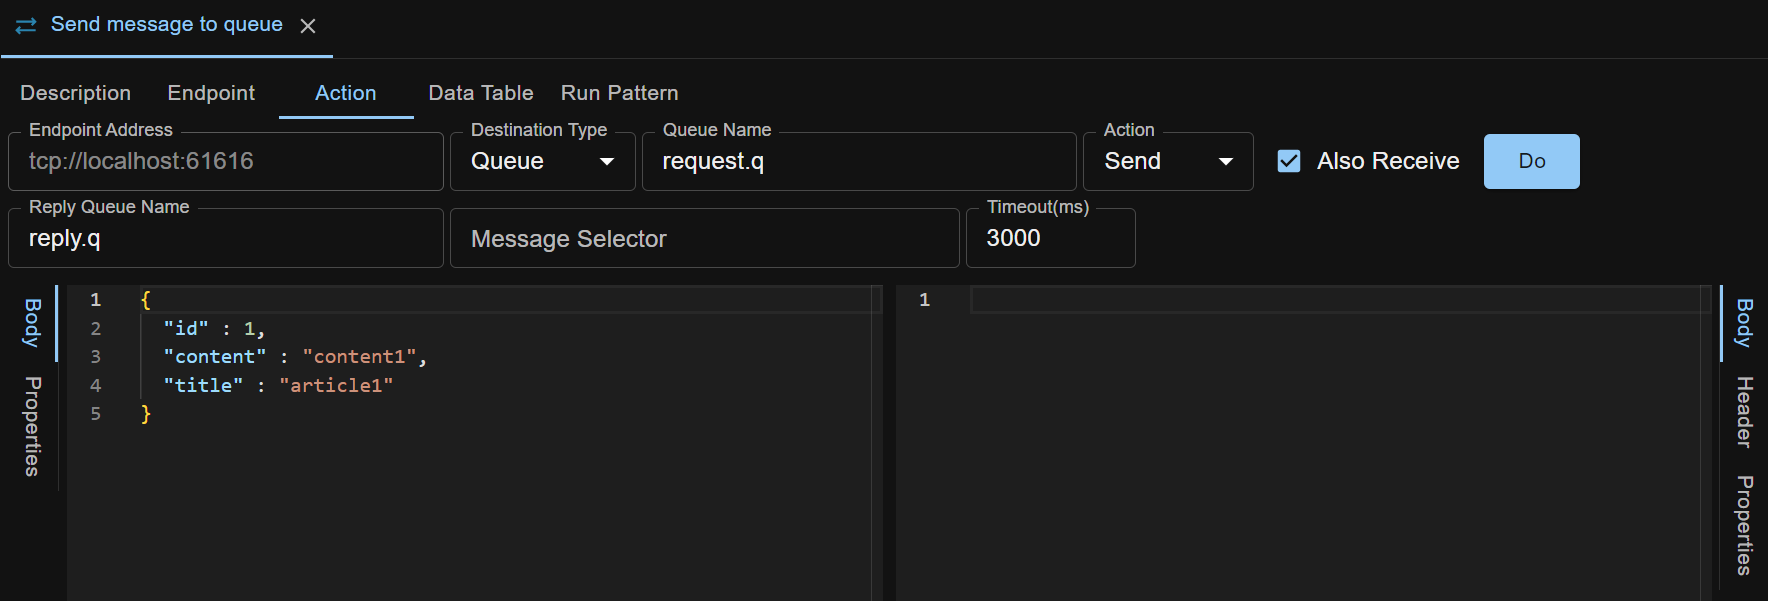
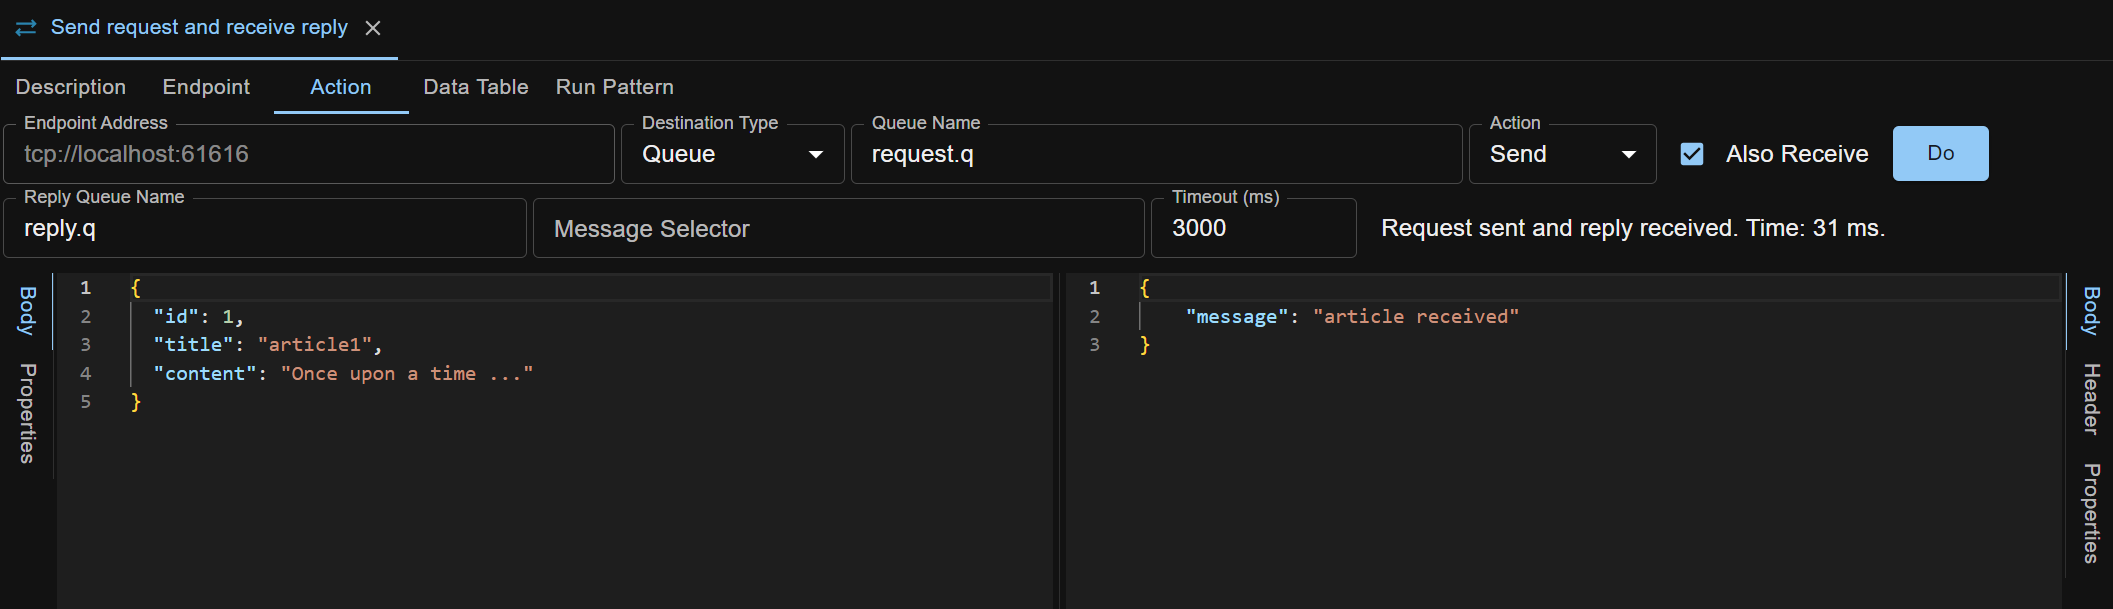
use new UI for docs

diff --git a/_docs/en/jms-test-step.md b/_docs/en/jms-test-step.md
@@ -19,13 +19,13 @@ Send action is used to send a JMS message into a queue.
 
 You can do one-way/fire-and-forget style invocation, i.e. send message to queue and done.
 
-You can also do request-reply style invocation, i.e. send message to request queue and receive another message from reply queue. Following is an example:
+You can also do request-reply style invocation, i.e. send message to request queue and receive another message from reply queue. For example:
 
 ![Send Message and Also Receive](../../screenshots/jms/send-message-and-also-receive.png)
 
 Message body can be XML, JSON, or any other text format.
 
-Click Do button to Send the message into the queue.
+Click `Do` button to Send the message and receive the reply.
 
 ## Browse Action
 Browse action is used to read a message from a queue without deleting the message.
@@ -34,6 +34,4 @@ You can browse the queue by message index or by a substring (in message body).
  
 ![Browse Queue by Substring](../../screenshots/jms/browse-queue-by-substring.png)
 
-Click Do button to read the message.
-
-Click the Assertions button to open assertions panel and add/edit/verify assertions.
+Click `Do` button to read the message.
